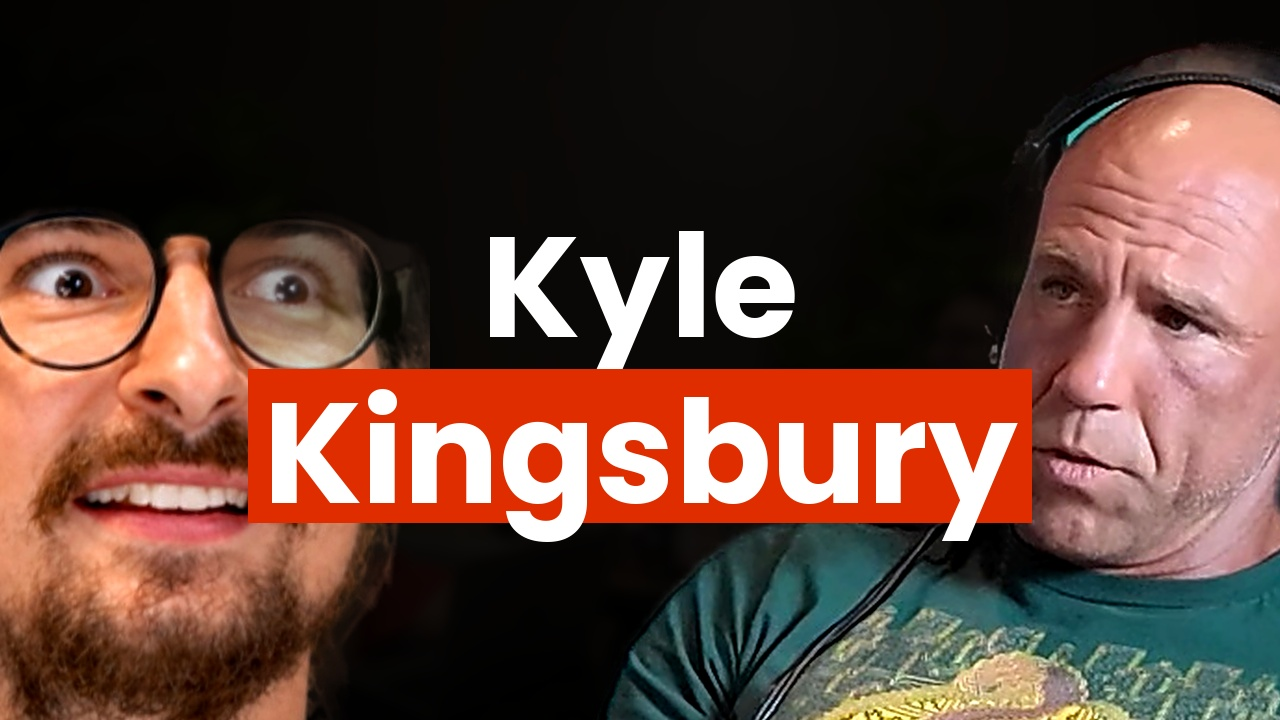
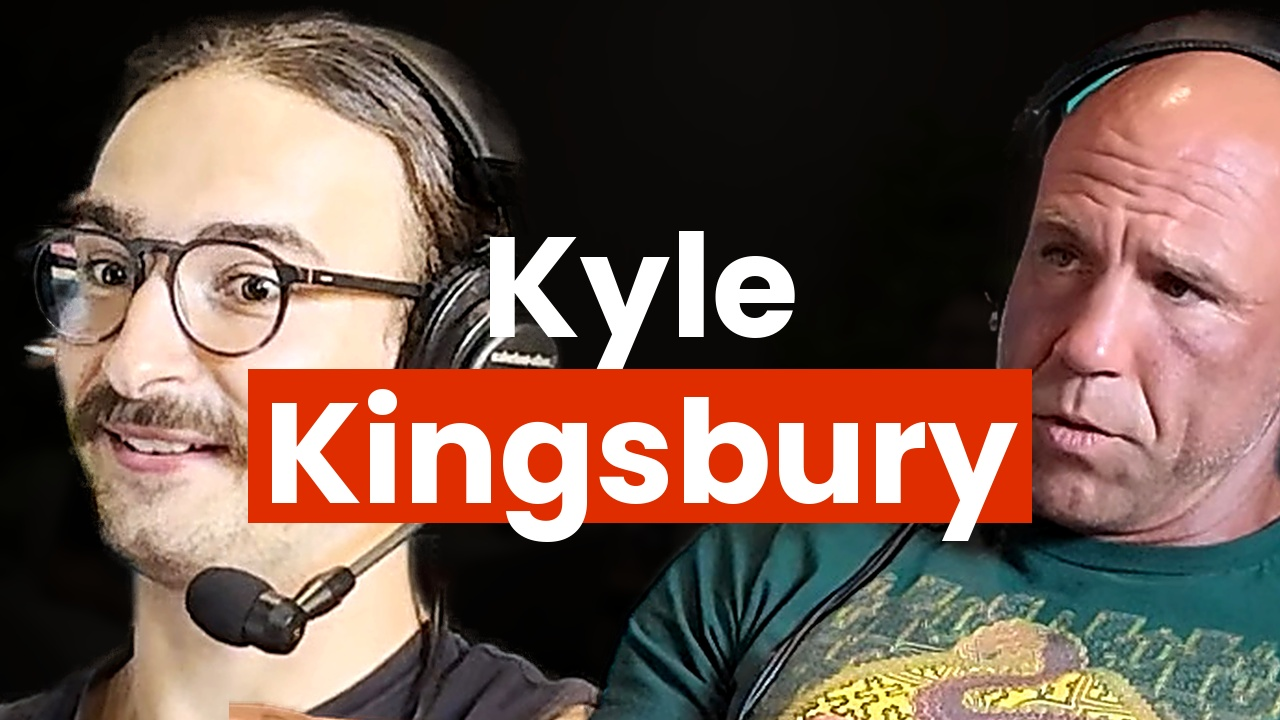
Kingsbury neu: beide aus dem Dreh, Scheitel angeschnitten, einer gespiegelt
Seine Kritik war in beiden Punkten richtig. Der Kopf hatte oben eine harte
Schnittkante direkt ueber der Brille: rembg hatte Stirn und Haare
weggeschnitten, weil er im fertigen Thumbnail RG-K0fIA2-w schon vor Schwarz
stand. Aufgefallen ist es mir nicht, weil ich den Freisteller nur vor
dunklem Grau geprueft hatte - dunkles Haar vor dunklem Grund. Und von
Kingsburys Oberkoerper war zu viel im Bild, weil ich ueber die Augenhoehe
statt ueber den Scheitel gesetzt hatte.

Beide kommen jetzt aus der Aufnahme selbst. 368 Bilder aus acht Fenstern
ueber die ganze Folge gemessen: Pupillenabstand konstant 84 bis 88 px, also
1,65x Hochrechnung. Die Schaerfe schwankt dagegen deutlich - die Bilder um
Minute 13 sind unscharf, die um Minute 70 scharf, messbar ueber die Varianz
des Laplace-Operators. Genommen: 04223.31, der schaerfste.

Beide schauen auf ihrer Kamera nach Bild-links, also musste einer gespiegelt
werden. thumbnail_bau.py kann das jetzt, und misst danach auf dem
gespiegelten Bild.

Drei Lehren in Bauplan und Lernkanal: Freisteller vor Gruen pruefen, nie aus
fertigen Thumbnails freistellen, und nicht nur nach Kopfgroesse sortieren.

diff --git a/video/thumbnail_bau.py b/video/thumbnail_bau.py
@@ -100,7 +100,8 @@ def gesicht_messen(png):
     return augen_x, augen_y, float(r[3])
 
 
-def kopf_setzen(leinwand, png, ziel, kontrast=1.14, helligkeit=1.06):
+def kopf_setzen(leinwand, png, ziel, kontrast=1.14, helligkeit=1.06,
+                spiegeln=False):
     """ziel: dict mit augen_x, box_h und entweder augen_y oder scheitel_y.
 
     **`scheitel_y` ist meist das richtige Mass.** Zwei Koepfe auf dieselbe
@@ -115,6 +116,14 @@ def kopf_setzen(leinwand, png, ziel, kontrast=1.14, helligkeit=1.06):
     Gesicht hart vor dem abgesoffenen Hintergrund, das Kamerabild kommt
     flacher aus der Aufnahme. Nur die Farbkanaele, die Maske bleibt wie sie ist.
     """
+    if spiegeln:
+        # Beide Kameras koennen denselben Blickwinkel zeigen; dann muss einer
+        # gespiegelt werden, damit sie sich anschauen. Die Messung laeuft auf
+        # dem gespiegelten Bild, sonst sitzt die Augenposition seitenverkehrt.
+        gespiegelt = Image.open(png).convert('RGBA').transpose(
+            Image.FLIP_LEFT_RIGHT)
+        png = png.rsplit('.', 1)[0] + '__gespiegelt.png'
+        gespiegelt.save(png)
     ax, ay, bh = gesicht_messen(png)
     k_vor = ziel['box_h'] / bh
     if 'scheitel_y' in ziel:
@@ -372,7 +381,7 @@ def bauen(hg, links, rechts, zeilen, kasten, ziel, text_mitte=640,
           logo_farbe=(0xF0, 0x48, 0x60), logo_oben=True, pfeil_von=None,
           pfeil_nach=None, pfeil_bogen=0.28, pfeil_dicke=18,
           pfeil_farbe=(0xDF, 0x2D, 0x00), pfeil_gezeichnet=True,
-          pfeil_kopf=3.1):
+          pfeil_kopf=3.1, links_spiegeln=False, rechts_spiegeln=False):
     """zeilen: Liste von Texten · kasten: Zeilenindex, oder [index, "teil"].
 
     `mitte` ist ein echtes Foto fuer die Bildmitte. Liegt eines vor, ruecken
@@ -421,10 +430,12 @@ def bauen(hg, links, rechts, zeilen, kasten, ziel, text_mitte=640,
 
     if links:
         kopf_setzen(bild, links,
-                    ziel_links or (ZIEL_LINKS_MITTE if mit_mitte else ZIEL_LINKS))
+                    ziel_links or (ZIEL_LINKS_MITTE if mit_mitte else ZIEL_LINKS),
+                    spiegeln=links_spiegeln)
     if rechts:
         kopf_setzen(bild, rechts,
-                    ziel_rechts or (ZIEL_RECHTS_MITTE if mit_mitte else ZIEL_RECHTS))
+                    ziel_rechts or (ZIEL_RECHTS_MITTE if mit_mitte else ZIEL_RECHTS),
+                    spiegeln=rechts_spiegeln)
     if logo and logo_oben:
         # Auf die Koepfe geworfen, nicht dahinter: wer „ein Logo auf ihn
         # werfen" sagt, meint davor.

diff --git a/video/thumbnails.md b/video/thumbnails.md
@@ -307,6 +307,35 @@ solle „ein Logo auf ihn werfen", meint davor, nicht dahinter. Hinter den
 Köpfen (`logo_oben: false`) ist es nur sinnvoll, wenn das Logo auf einer
 Grafik in der Bildmitte liegt, wie in der DOAC-Vorlage.
 
+### Freisteller IMMER vor Grün prüfen
+
+Am 21.10. habe ich ihm einen Freisteller geliefert, bei dem **rembg Stirn und
+Haare komplett weggeschnitten hatte** — der Kopf endete mit einer harten Kante
+direkt über der Brille. Seine Worte: *„siehst du das, dass mein Kopf
+abgeschnitten ist über meiner Brille."*
+
+**Warum es mir nicht auffiel:** ich hatte den Freisteller nur vor dunklem Grau
+geprüft. Dunkle Haare vor dunklem Grund — das Loch war unsichtbar. **Jeder
+Freisteller gehört vor eine Signalfarbe, Grün (0,200,0).**
+
+### Nicht aus fertigen Thumbnails freistellen
+
+Derselbe Fehler hatte eine zweite Ursache: ich hatte sein Gesicht aus dem
+fertigen Thumbnail `RG-K0fIA2-w` geschnitten. Dort steht er schon vor
+**schwarzem Hintergrund** — rembg kann dunkles Haar davon nicht trennen, und
+der Bildrand liefert zusätzlich eine gerade Schnittkante. **Immer aus dem
+Rohmaterial freistellen, wo die Person vor einem belichteten Raum sitzt.**
+
+### Wenn beide Kameras in dieselbe Richtung zeigen
+
+In der Kingsbury-Aufnahme schauen **beide** auf ihrer jeweiligen Kamera nach
+Bild-links. Nebeneinandergesetzt schauen sie dann in dieselbe Richtung statt
+sich an. Abhilfe: **einen von beiden spiegeln** (`links_spiegeln` /
+`rechts_spiegeln`). Die Messung muss danach auf dem gespiegelten Bild laufen,
+sonst sitzt die Augenposition seitenverkehrt. Zu spiegeln ist der mit den
+wenigsten seitenabhängigen Merkmalen — ein Headset-Bügel fällt niemandem auf,
+Schrift auf dem Shirt schon.
+
 ### Eine Regel für mich
 
 **Genau das liefern, was bestellt ist.** Er hat „Human Extinction" verlangt;

diff --git a/lernen/thumbnails.md b/lernen/thumbnails.md
@@ -5,6 +5,38 @@ oben. Nur nachgemessene Befunde mit Zahl oder wörtlichem Zitat.
 
 ---
 
+## 21.10.2026 — abends
+
+- **Freisteller gehören vor eine Signalfarbe geprüft, nicht vor Dunkelgrau.**
+  Ich lieferte einen Kopf aus, bei dem rembg **Stirn und Haare komplett
+  weggeschnitten** hatte — harte Kante direkt über der Brille. Vor dunklem
+  Grau geprüft war das Loch unsichtbar, weil dunkles Haar vor dunklem Grund
+  verschwindet. **Prüffarbe: Grün (0,200,0).**
+  → betrifft: alle, die freistellen
+
+- **Nie aus einem fertigen Thumbnail freistellen.** Dort steht die Person
+  schon vor Schwarz; rembg kann dunkles Haar davon nicht trennen, und der
+  Bildrand liefert zusätzlich eine gerade Schnittkante. Immer aus dem
+  Rohmaterial, wo die Person vor einem belichteten Raum sitzt.
+  → betrifft: alle, die freistellen
+
+- **Kameras zeigen oft beide dieselbe Blickrichtung.** In der
+  Kingsbury-Aufnahme schauen beide auf ihrer Kamera nach Bild-links;
+  nebeneinandergesetzt schauen sie dann aneinander vorbei. Einen spiegeln,
+  und zwar den mit den wenigsten seitenabhängigen Merkmalen. **Die Messung
+  danach auf dem gespiegelten Bild laufen lassen**, sonst sitzt die
+  Augenposition seitenverkehrt.
+  → betrifft: content-*, cinematic
+
+- **Schärfe schwankt über eine Folge stärker als die Kopfgröße.** Bei Yannick
+  in der Kingsbury-Aufnahme lag der Pupillenabstand über 368 Bilder konstant
+  bei 84–88 px, aber die Bilder um Minute 13 sind **sichtbar unscharf** und
+  die um Minute 70 scharf. Messbar über die Varianz des Laplace-Operators im
+  Gesichtsbereich (368 gegen 411). **Nicht nur nach Größe sortieren.**
+  → betrifft: alle Content-Agenten
+
+---
+
 ## 21.10.2026 — Nachtrag aus 15 Commits
 
 ### Die Schrift der Marke — gefunden und belegt
